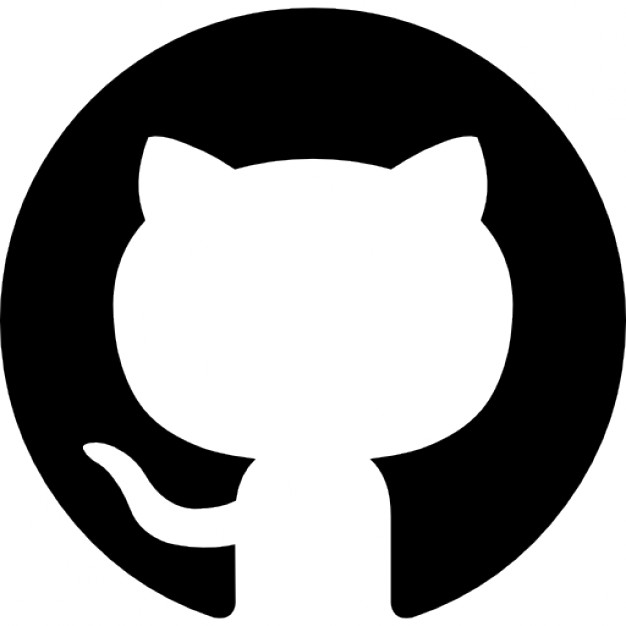
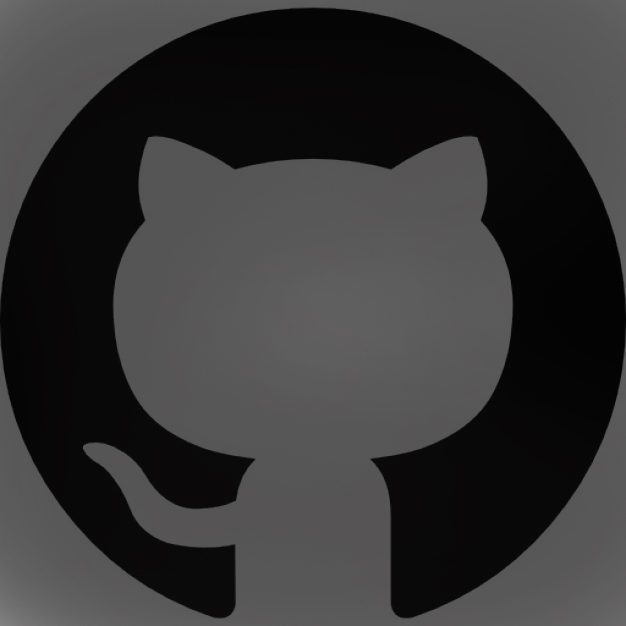
fix
поменял цвет значка, изменил стили.

diff --git a/index.html b/index.html
@@ -102,9 +102,9 @@
       
     <div id="footer">
       <div class="footer_links">
-        <a href="https://github.com/theoldnewbie"><img src="http://theoldnewbie.github.io/my_test_site/images/git.jpg" alt="GitHub" title="GitHub" border="0" ></a>
+        <a href="https://github.com/theoldnewbie"><img src="http://theoldnewbie.github.io/my_test_site/images/git.jpg" alt="GitHub" title="GitHub" border="0" width="28" height="28"></a>
       </div>
-      
+
     </div>
 
   </div>

diff --git a/stylesheets/style.css b/stylesheets/style.css
@@ -19,7 +19,7 @@ p.tab{
 }
 
 h1{
-color:#444948;
+color:#151515;
 font-size:12px;
 font-weight:bold;
 margin:0px;
@@ -27,7 +27,7 @@ padding:5px 0 5px 0;
 }
 
 h2{
-color:#444948;
+color:#151515;
 font-size:14px;
 font-weight:bold;
 margin:0px;
@@ -231,6 +231,6 @@ border-top:1px #010101 dashed;
 
 .footer_links{
 float:right;
-padding-right:15px;
-padding-top:7px;
+padding-right:20px;
+
 }
